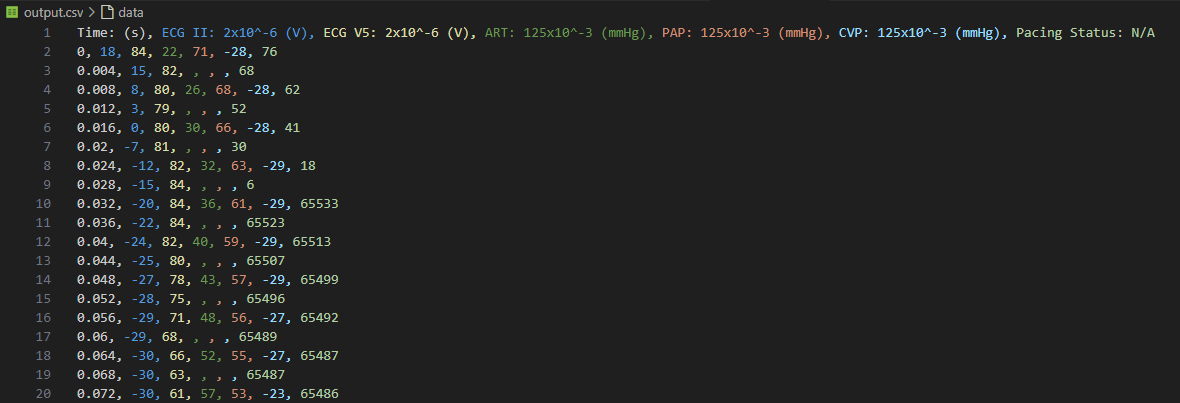
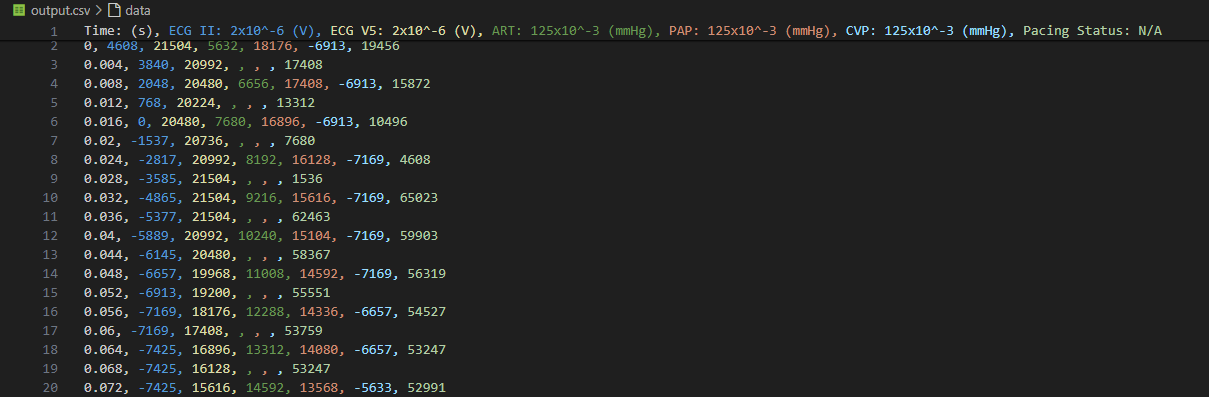
Fix: Waveform data is always Big Endian

Changed region(s): [[0.0, 0.0, 0.9763, 0.9975]]

diff --git a/NihonKohdenData.cpp b/NihonKohdenData.cpp
@@ -11,6 +11,8 @@ NihonKohdenData::NihonKohdenData(ByteVector dataVector)
     fields = collectDataFields(collection.getMFERDataVector());
 }
 
+vector<double> popChannelData(DataStack &waveformDataStack, uint64_t num, DataType dataType); // Forward declaration
+
 DataFields NihonKohdenData::collectDataFields(const vector<unique_ptr<MFERData>> &mferDataVector)
 {
     DataFields fields;
@@ -89,7 +91,7 @@ DataFields NihonKohdenData::collectDataFields(const vector<unique_ptr<MFERData>>
             DataStack waveformDataStack(wav->getContents());
             for (auto &channel : fields.channels)
             {
-                channel.data = popChannelData(waveformDataStack, channel.blockLength * fields.sequenceCount, channel.dataType, fields.byteOrder);
+                channel.data = popChannelData(waveformDataStack, channel.blockLength * fields.sequenceCount, channel.dataType);
             }
         }
         else if (data->getTag() == END::tag)
@@ -208,30 +210,30 @@ void NihonKohdenData::writeWaveformToCsv(const string &fileName) const
     cout << "Complete." << endl;
 }
 
-vector<double> popChannelData(DataStack &waveformDataStack, uint64_t num, DataType dataType, ByteOrder byteOrder)
+vector<double> popChannelData(DataStack &waveformDataStack, uint64_t num, DataType dataType)
 {
     switch (dataType)
     {
     case DataType::INT_16_S:
-        return waveformDataStack.pop_doubles<int16_t>(num, byteOrder);
+        return waveformDataStack.pop_doubles<int16_t>(num);
     case DataType::INT_16_U:
-        return waveformDataStack.pop_doubles<uint16_t>(num, byteOrder);
+        return waveformDataStack.pop_doubles<uint16_t>(num);
     case DataType::INT_32_S:
-        return waveformDataStack.pop_doubles<int32_t>(num, byteOrder);
+        return waveformDataStack.pop_doubles<int32_t>(num);
     case DataType::INT_8_U:
-        return waveformDataStack.pop_doubles<uint8_t>(num, byteOrder);
+        return waveformDataStack.pop_doubles<uint8_t>(num);
     case DataType::STATUS_16:
-        return waveformDataStack.pop_doubles<uint16_t>(num, byteOrder);
+        return waveformDataStack.pop_doubles<uint16_t>(num);
     case DataType::INT_8_S:
-        return waveformDataStack.pop_doubles<int8_t>(num, byteOrder);
+        return waveformDataStack.pop_doubles<int8_t>(num);
     case DataType::INT_32_U:
-        return waveformDataStack.pop_doubles<uint32_t>(num, byteOrder);
+        return waveformDataStack.pop_doubles<uint32_t>(num);
     case DataType::FLOAT_32:
-        return waveformDataStack.pop_doubles<float>(num, byteOrder);
+        return waveformDataStack.pop_doubles<float>(num);
     case DataType::FLOAT_64:
-        return waveformDataStack.pop_doubles<double>(num, byteOrder);
+        return waveformDataStack.pop_doubles<double>(num);
     case DataType::AHA_8:
-        return waveformDataStack.pop_doubles<uint8_t>(num, byteOrder);
+        return waveformDataStack.pop_doubles<uint8_t>(num);
     default:
         throw runtime_error("Invalid data type");
     }

diff --git a/NihonKohdenData.h b/NihonKohdenData.h
@@ -30,8 +30,6 @@ struct DataFields
     vector<Channel> channels;
 };
 
-vector<double> popChannelData(DataStack &waveformDataStack, uint64_t num, DataType dataType, ByteOrder byteOrder = ByteOrder::ENDIAN_BIG);
-
 class NihonKohdenData
 {
 public:
